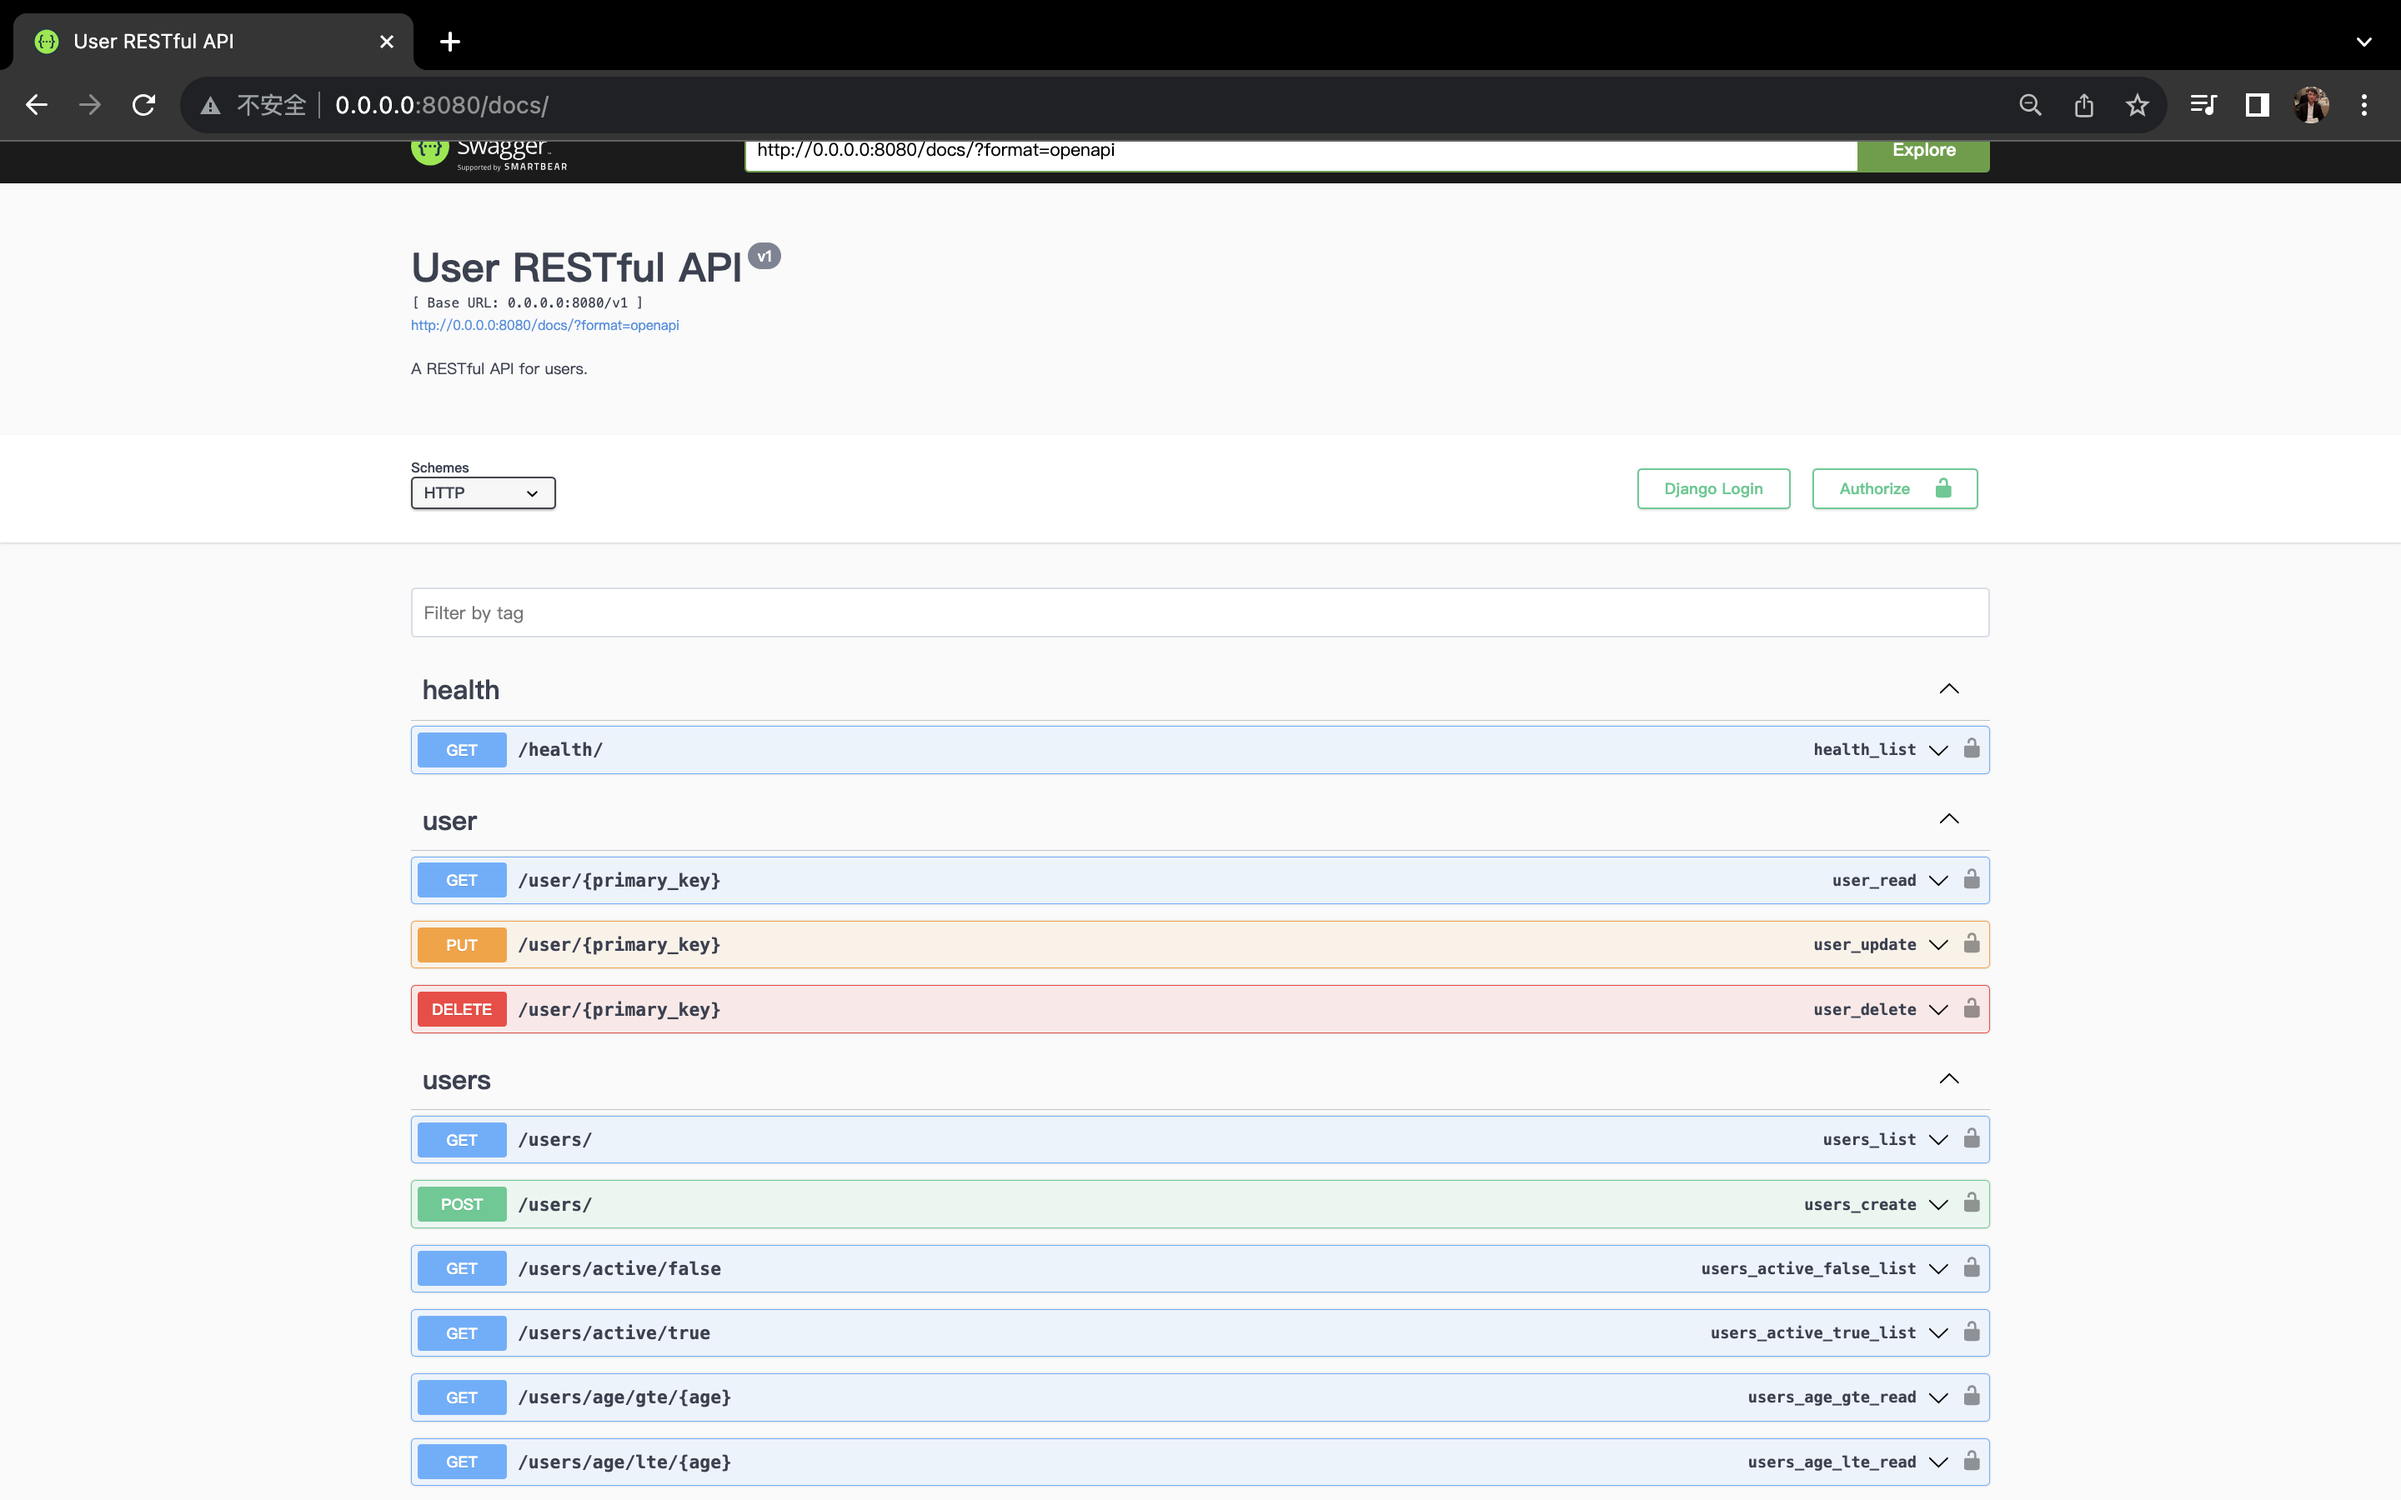
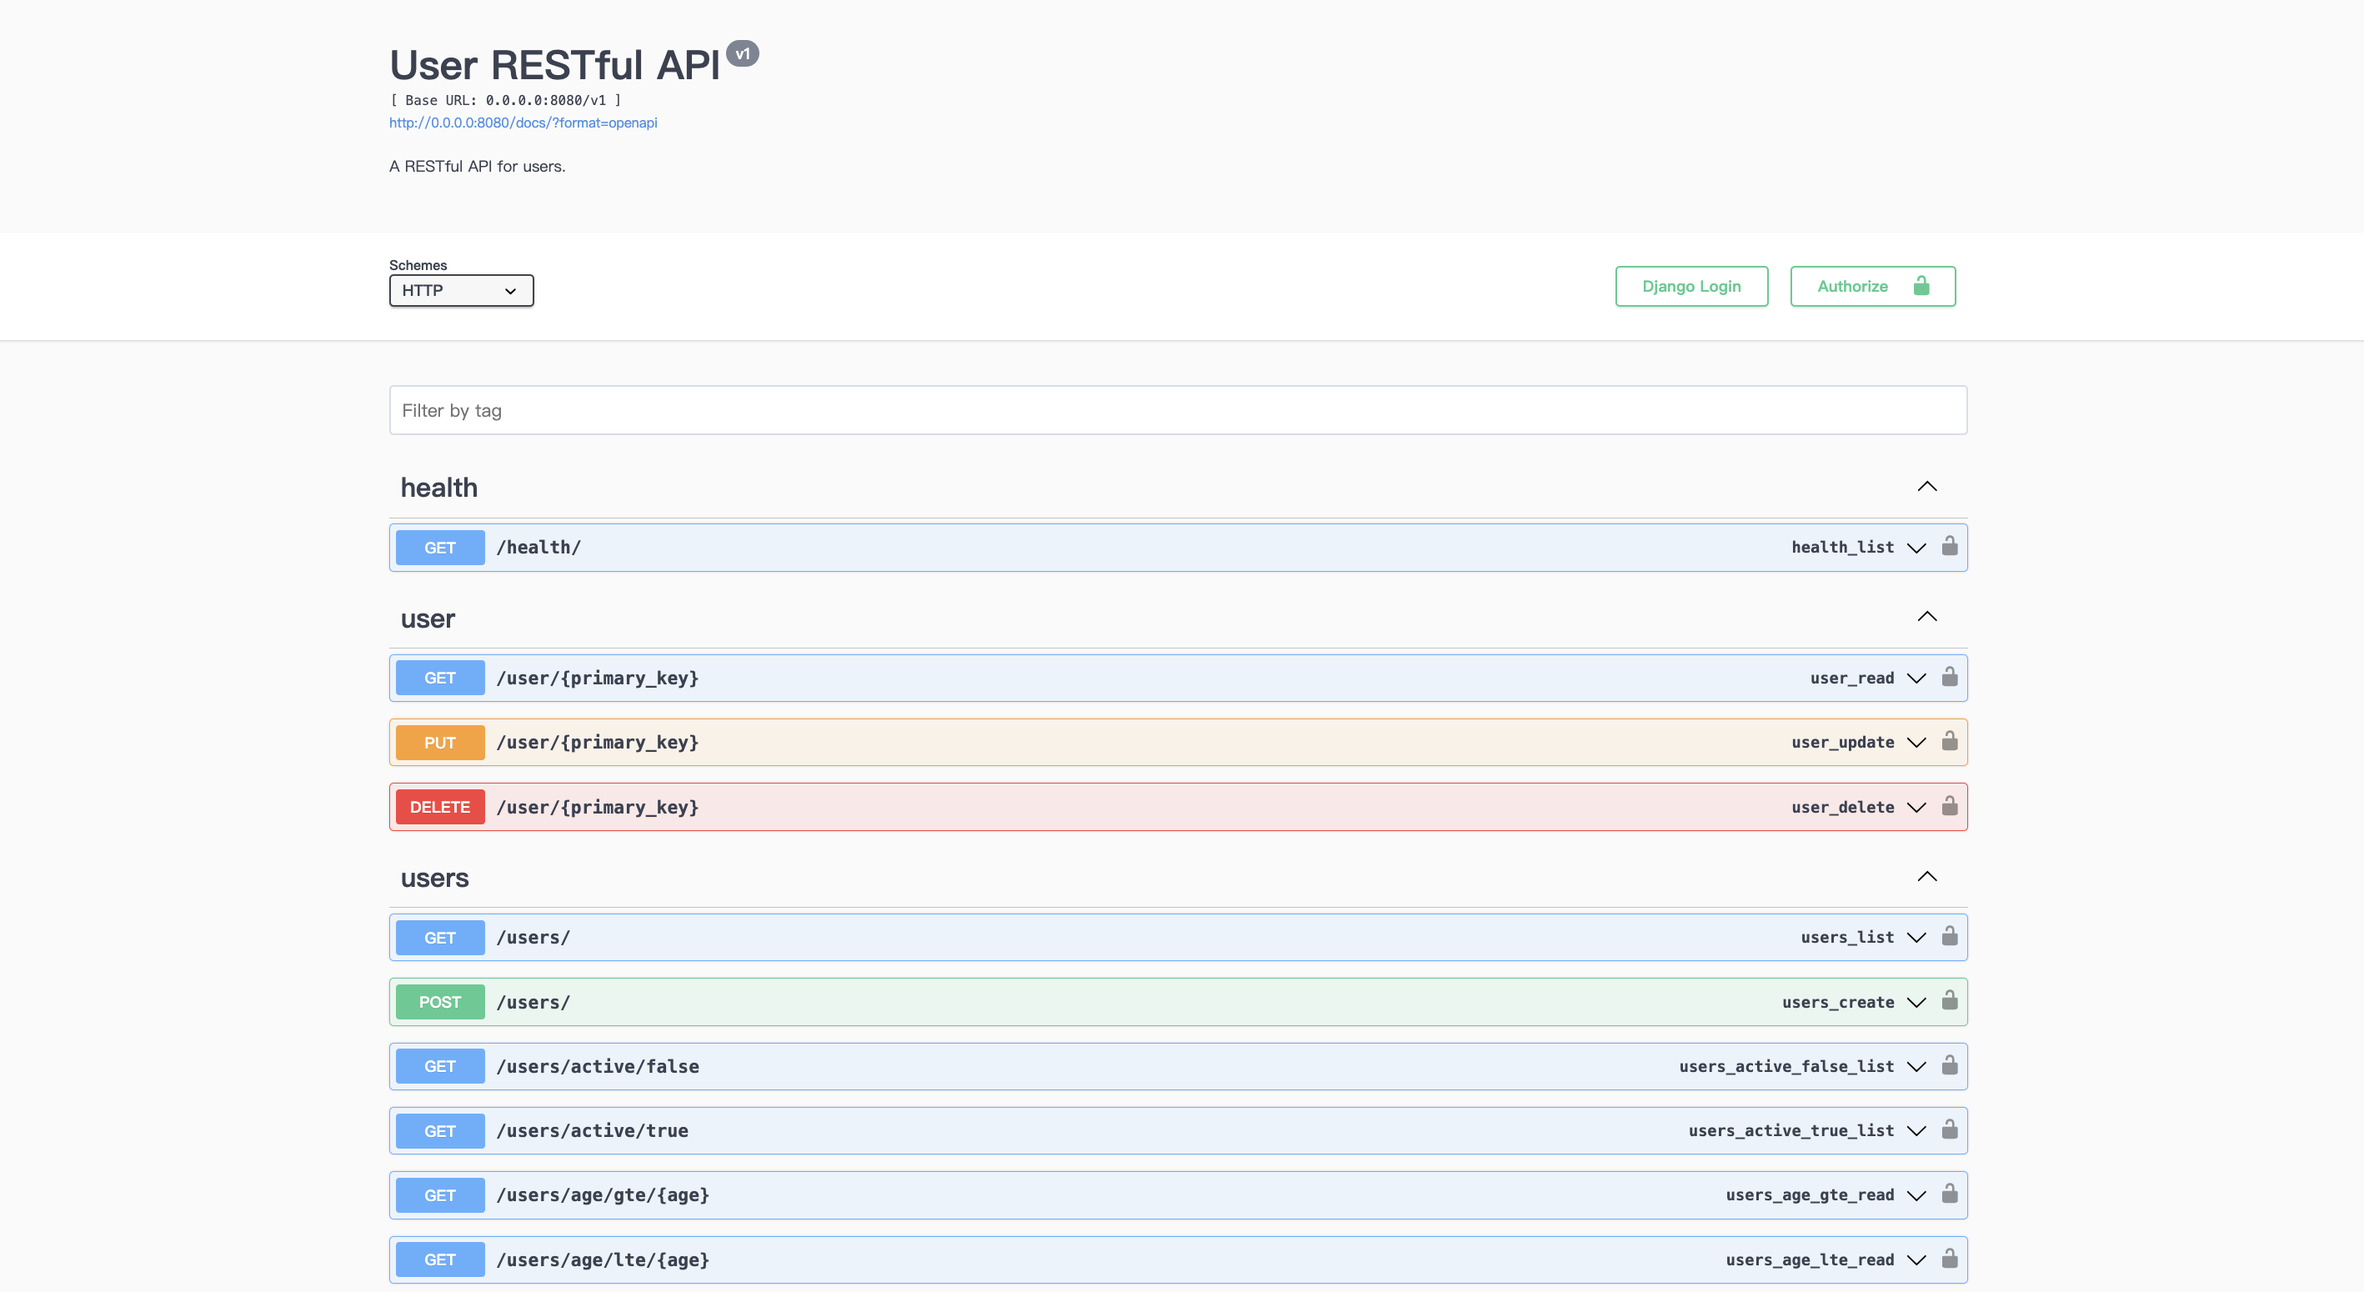
update readme

diff --git a/README.md b/README.md
@@ -96,4 +96,6 @@ ansible-playbook ansible/stop_server.yaml --extra-vars "deployment_folder=/<find
 
 ## Swagger
 
-![alt text](https://github.com/bohuang-work/djangoProject/blob/main/static/django_rest_api.png)
+- visite swagger: http://0.0.0.0:8080/docs
+
+![alt text](https://github.com/bohuang-work/djangoProject/blob/main/static/swagger.png)
